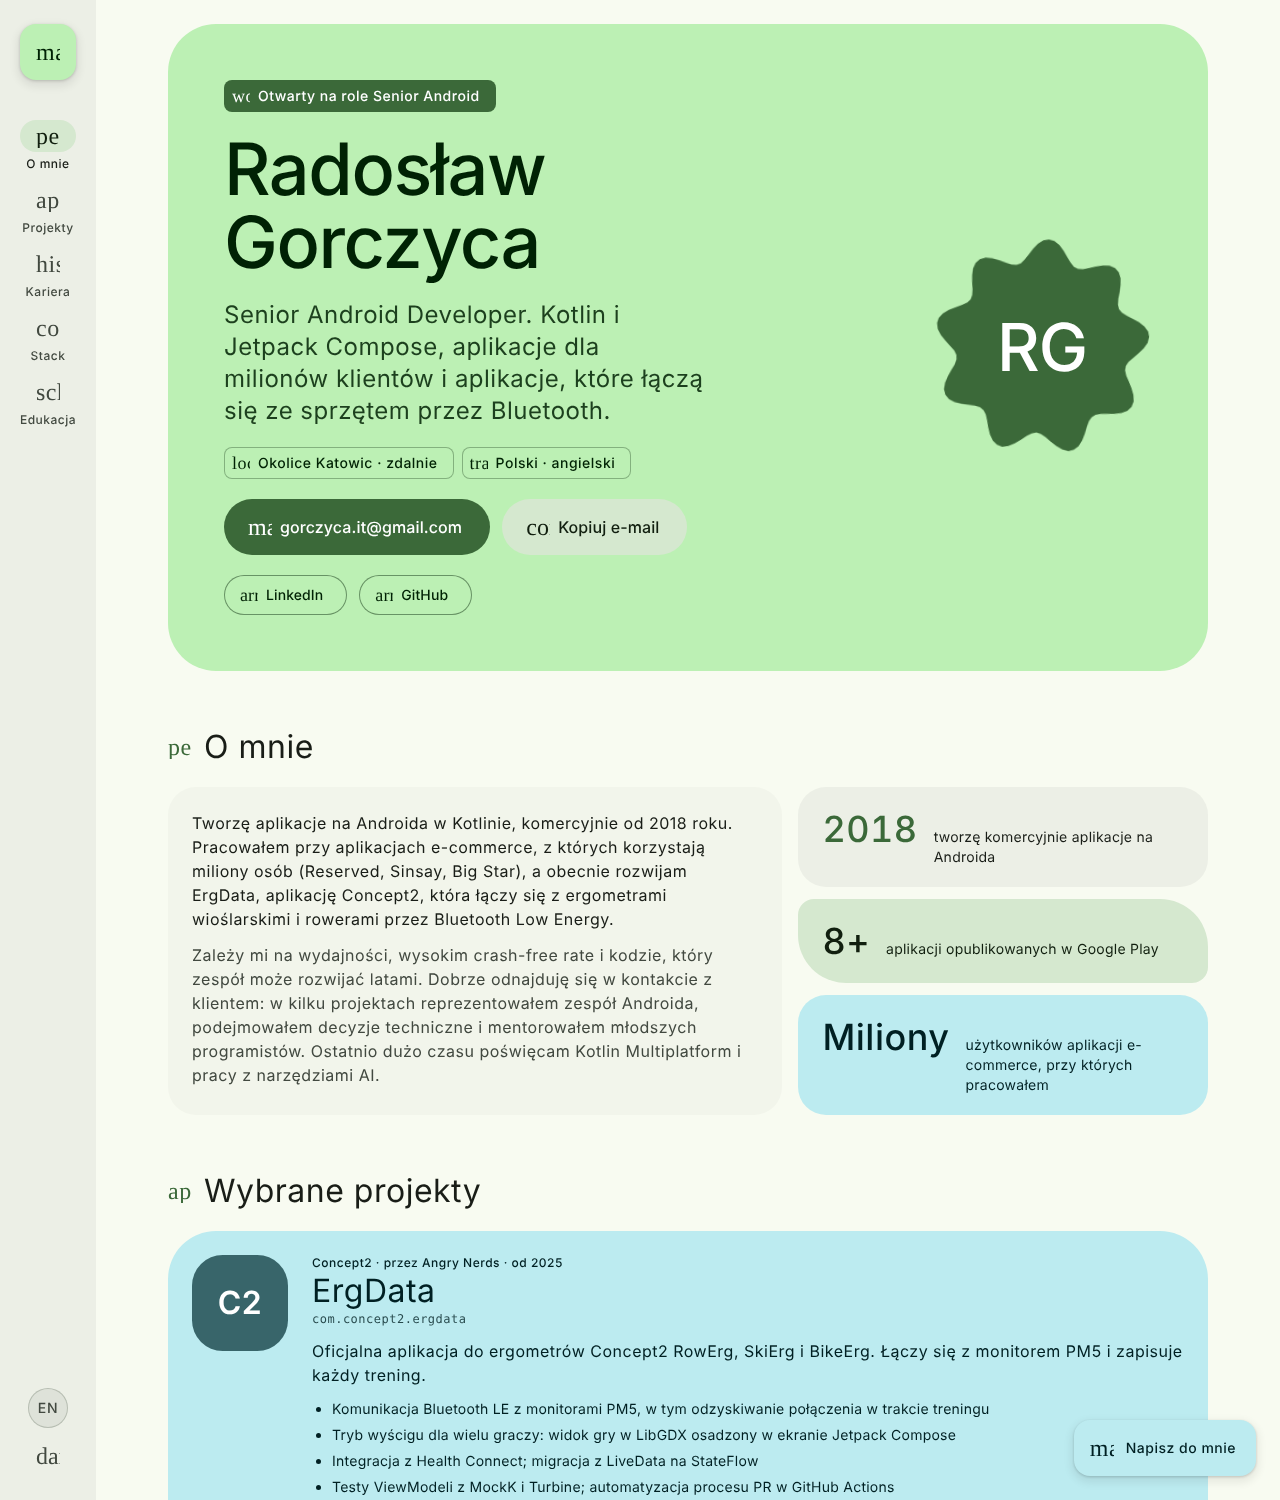
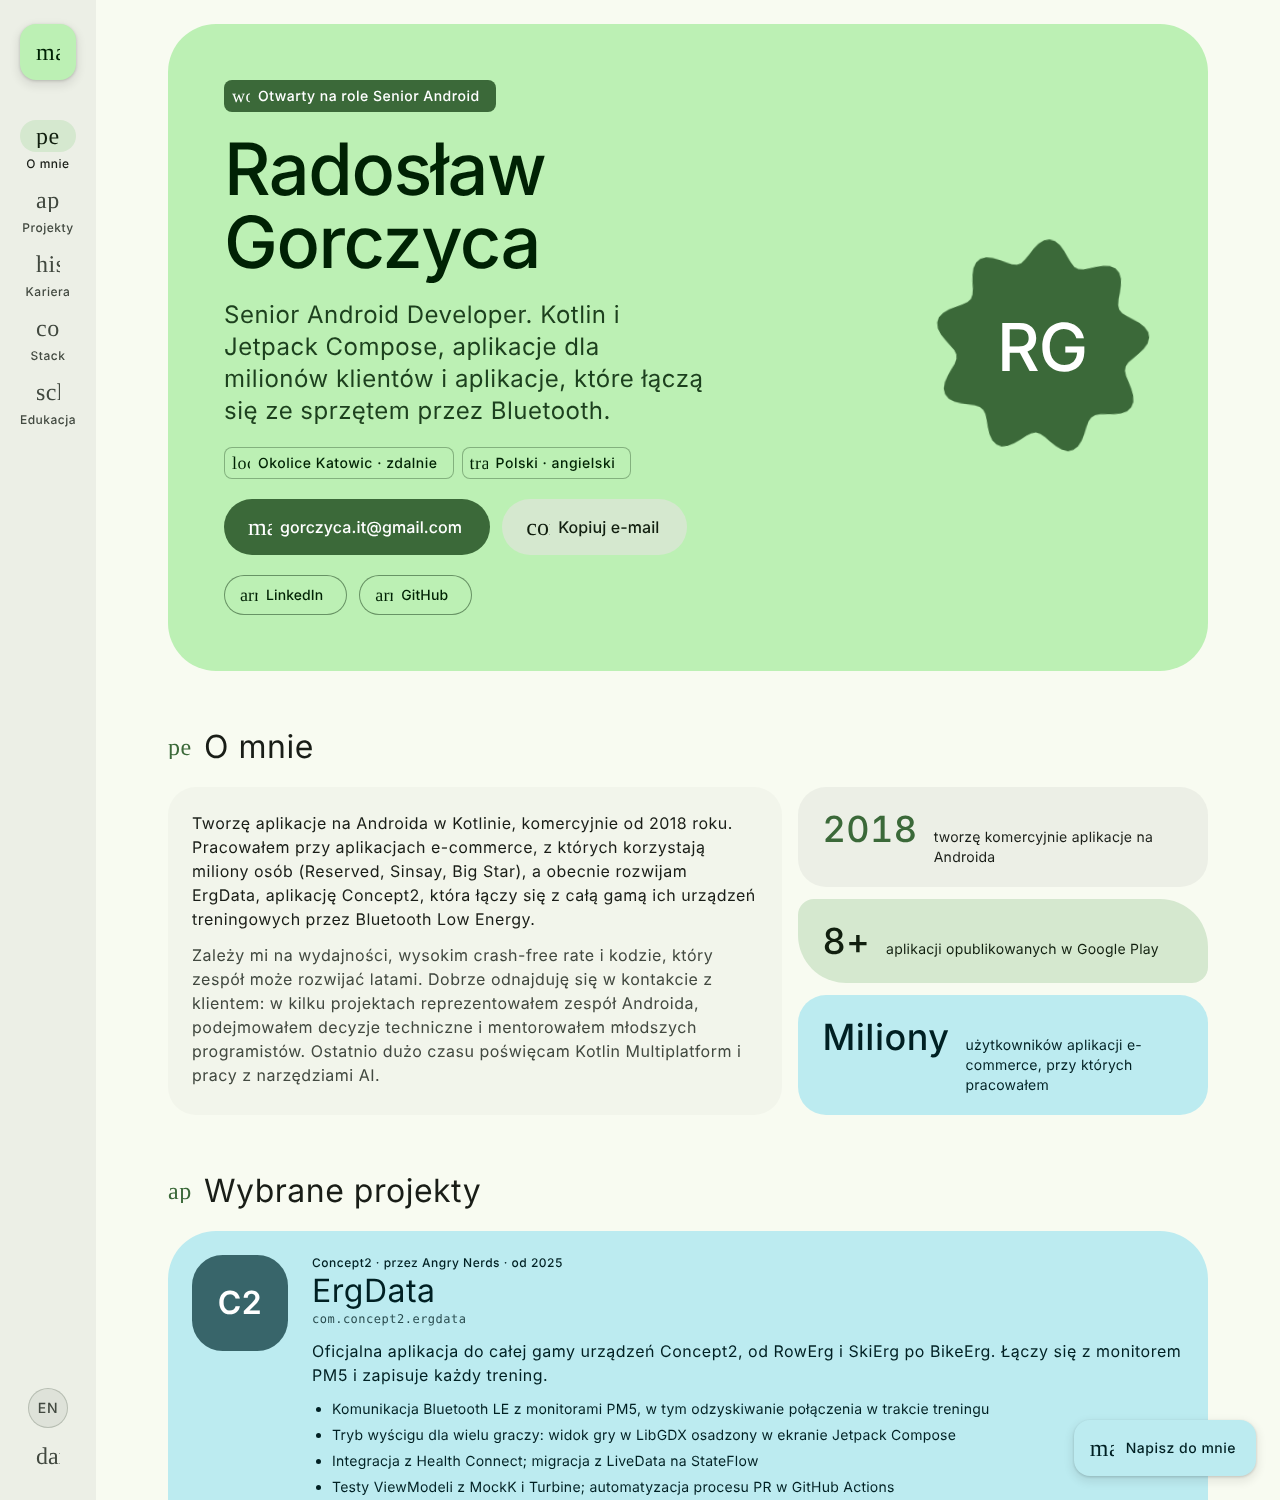
Fix sailing destinations, Tablescribe and ErgData descriptions
Claude-Session: https://claude.ai/code/session_0133f17d3yGtkWuL2MrnwmmY

Changed region(s): [[0.375, 0.8893, 0.9062, 0.92], [0.4375, 0.5827, 0.5938, 0.6133], [0.25, 0.8893, 0.3438, 0.92]]

diff --git a/public/index.html b/public/index.html
@@ -450,7 +450,7 @@ footer { display: flex; justify-content: space-between; flex-wrap: wrap; gap: 12
     <div class="section-head"><span class="icon">person</span><h2 class="headline-l" id="about-h">About</h2></div>
     <div class="about">
       <div class="card card-low">
-        <p class="body-l">I build Android apps in Kotlin and have been doing it commercially since 2018. I've worked on e-commerce apps used by millions (Reserved, Sinsay, Big Star) and now on ErgData, Concept2's companion app that connects to rowing machines and bikes over Bluetooth Low Energy.</p>
+        <p class="body-l">I build Android apps in Kotlin and have been doing it commercially since 2018. I've worked on e-commerce apps used by millions (Reserved, Sinsay, Big Star) and now on ErgData, Concept2's companion app that connects to their full range of fitness machines over Bluetooth Low Energy.</p>
         <p class="body-l muted">I care about performance, crash-free rates and code a team can keep changing for years. I'm comfortable being the person the client talks to: on several projects I represented the Android team, ran technical decisions and mentored junior developers. Lately I'm spending a lot of time with Kotlin Multiplatform and AI-assisted development workflows.</p>
       </div>
       <div class="stats">
@@ -473,7 +473,7 @@ footer { display: flex; justify-content: space-between; flex-wrap: wrap; gap: 12
             <h3 class="headline-l">ErgData</h3>
             <span class="pkg">com.concept2.ergdata</span>
           </div>
-          <p class="body-l">The official companion app for Concept2 RowErg, SkiErg and BikeErg. It pairs with the PM5 performance monitor and records every workout.</p>
+          <p class="body-l">The official companion app for the full range of Concept2 machines, from RowErg and SkiErg to BikeErg. It pairs with the PM5 performance monitor and records every workout.</p>
           <ul class="points body-m">
             <li>Bluetooth LE communication with PM5 monitors, including connection recovery mid-workout</li>
             <li>Multiplayer race mode: a LibGDX game view embedded in a Jetpack Compose screen</li>
@@ -683,7 +683,7 @@ footer { display: flex; justify-content: space-between; flex-wrap: wrap; gap: 12
       <div class="hobby">
         <span class="blob"><span class="icon filled">sailing</span></span>
         <h3 class="title-m">Sailing</h3>
-        <p class="body-m muted">Most of my holidays happen on a boat. Greece, Croatia, Norway so far.</p>
+        <p class="body-m muted">Most of my holidays happen on a boat. Greece, Croatia, Sweden so far.</p>
       </div>
       <div class="hobby">
         <span class="blob"><span class="icon filled">music_note</span></span>
@@ -744,7 +744,7 @@ footer { display: flex; justify-content: space-between; flex-wrap: wrap; gap: 12
 
 
   // Language: English by default; Polish via the switch or ?lang=pl. Choice remembered per browser.
-  var PL = {"About": "O mnie", "Work": "Projekty", "Experience": "Doświadczenie", "Skills": "Umiejętności", "Education": "Edukacja", "Open to Senior Android roles": "Otwarty na role Senior Android", "Senior Android Developer. Kotlin and Jetpack Compose, apps for millions of shoppers, and apps that talk to hardware over Bluetooth.": "Senior Android Developer. Kotlin i Jetpack Compose, aplikacje dla milionów klientów i aplikacje, które łączą się ze sprzętem przez Bluetooth.", "Katowice area, Poland · remote": "Okolice Katowic · zdalnie", "Polish · English": "Polski · angielski", "Copy email": "Kopiuj e-mail", "I build Android apps in Kotlin and have been doing it commercially since 2018. I've worked on e-commerce apps used by millions (Reserved, Sinsay, Big Star) and now on ErgData, Concept2's companion app that connects to rowing machines and bikes over Bluetooth Low Energy.": "Tworzę aplikacje na Androida w Kotlinie, komercyjnie od 2018 roku. Pracowałem przy aplikacjach e-commerce, z których korzystają miliony osób (Reserved, Sinsay, Big Star), a obecnie rozwijam ErgData, aplikację Concept2, która łączy się z ergometrami wioślarskimi i rowerami przez Bluetooth Low Energy.", "I care about performance, crash-free rates and code a team can keep changing for years. I'm comfortable being the person the client talks to: on several projects I represented the Android team, ran technical decisions and mentored junior developers. Lately I'm spending a lot of time with Kotlin Multiplatform and AI-assisted development workflows.": "Zależy mi na wydajności, wysokim crash-free rate i kodzie, który zespół może rozwijać latami. Dobrze odnajduję się w kontakcie z klientem: w kilku projektach reprezentowałem zespół Androida, podejmowałem decyzje techniczne i mentorowałem młodszych programistów. Ostatnio dużo czasu poświęcam Kotlin Multiplatform i pracy z narzędziami AI.", "building Android apps commercially": "tworzę komercyjnie aplikacje na Androida", "apps shipped to Google Play": "aplikacji opublikowanych w Google Play", "Millions": "Miliony", "of users on the e-commerce apps I worked on": "użytkowników aplikacji e-commerce, przy których pracowałem", "Selected work": "Wybrane projekty", "Concept2 · via Angry Nerds · 2025–now": "Concept2 · przez Angry Nerds · od 2025", "The official companion app for Concept2 RowErg, SkiErg and BikeErg. It pairs with the PM5 performance monitor and records every workout.": "Oficjalna aplikacja do ergometrów Concept2 RowErg, SkiErg i BikeErg. Łączy się z monitorem PM5 i zapisuje każdy trening.", "Bluetooth LE communication with PM5 monitors, including connection recovery mid-workout": "Komunikacja Bluetooth LE z monitorami PM5, w tym odzyskiwanie połączenia w trakcie treningu", "Multiplayer race mode: a LibGDX game view embedded in a Jetpack Compose screen": "Tryb wyścigu dla wielu graczy: widok gry w LibGDX osadzony w ekranie Jetpack Compose", "Health Connect integration; migration from LiveData to StateFlow": "Integracja z Health Connect; migracja z LiveData na StateFlow", "ViewModel test coverage with MockK and Turbine; GitHub Actions automation for the PR workflow": "Testy ViewModeli z MockK i Turbine; automatyzacja procesu PR w GitHub Actions", "LPP · via Future Mind": "LPP · przez Future Mind", "E-commerce app for the Polish fashion brand. Feature work, maintenance and support for a multi-million user base.": "Aplikacja e-commerce polskiej marki modowej. Rozwój funkcji, utrzymanie i wsparcie dla milionów użytkowników.", "E-commerce app for LPP's Sinsay brand. Feature development, maintenance and support.": "Aplikacja e-commerce marki Sinsay z grupy LPP. Rozwój funkcji, utrzymanie i wsparcie.", "Big Star · via Future Mind": "Big Star · przez Future Mind", "Shopping app for the denim brand. I acted as the de facto Android lead, owning technical decisions and client communication.": "Aplikacja zakupowa marki denimowej. Byłem de facto liderem zespołu Androida, odpowiadałem za decyzje techniczne i komunikację z klientem.", "via Future Mind": "przez Future Mind", "An Android library that checks the condition of a phone's display, used to verify screens for phone insurance.": "Biblioteka na Androida, która sprawdza stan wyświetlacza telefonu. Służy do weryfikacji ekranów przy ubezpieczeniach telefonów.", "TestingCup · via 21CN": "TestingCup · przez 21CN", "A deliberately buggy app full of tasks for manual testers, built for the TestingCup 2020 championship, plus a public demo version.": "Celowo pełna błędów aplikacja z zadaniami dla testerów manualnych, przygotowana na mistrzostwa TestingCup 2020, wraz z publiczną wersją demo.", "via 21CN": "przez 21CN", "A training app for manual testers, built alongside MrBuggy.": "Aplikacja szkoleniowa dla testerów manualnych, powstała równolegle z MrBuggy.", "Side project": "Projekt poboczny", "A platform for tabletop RPG groups that I'm building right now. Join the waitlist and help shape it.": "Platforma dla drużyn grających w gry fabularne, którą właśnie tworzę. Zapisz się na listę oczekujących i pomóż ją kształtować.", "See Tablescribe": "Zobacz Tablescribe", "Now": "Obecnie", "Working with international clients on requirements and solutions": "Współpraca z międzynarodowymi klientami przy wymaganiach i rozwiązaniach", "Building apps that connect directly to hardware (Concept2 ErgData, BLE)": "Tworzenie aplikacji łączących się bezpośrednio ze sprzętem (Concept2 ErgData, BLE)", "Focus on performance optimization and a high crash-free rate": "Nacisk na optymalizację wydajności i wysoki crash-free rate", "May 2025 – now": "maj 2025 – obecnie", "Development, maintenance and support of multi-million user apps (Reserved, Sinsay, Big Star)": "Rozwój, utrzymanie i wsparcie aplikacji z milionami użytkowników (Reserved, Sinsay, Big Star)", "Acted as the de facto Android lead on Big Star": "De facto lider zespołu Androida w projekcie Big Star", "Built the MirrorCheck screen-inspection SDK used inside the Play and Plus apps": "Stworzenie SDK MirrorCheck do badania ekranu, używanego w aplikacjach Play i Plus", "Represented the Android team to clients as the main point of contact and made key technical decisions": "Reprezentowanie zespołu Androida przed klientem jako główna osoba kontaktowa i podejmowanie kluczowych decyzji technicznych", "Took part in product design, analysis and planning in Scrum teams": "Udział w projektowaniu produktu, analizie i planowaniu w zespołach scrumowych", "Feb 2021 – May 2025": "luty 2021 – maj 2025", "Built Zapłać Mi (debt tracking among friends), MrBuggy and the Software Testing App": "Stworzenie aplikacji Zapłać Mi (śledzenie długów wśród znajomych), MrBuggy i Software Testing App", "Delivered features with MVVM and mentored a junior developer": "Dostarczanie funkcji w architekturze MVVM i mentoring młodszego programisty", "Jan 2020 – Feb 2021": "styczeń 2020 – luty 2021", "Projects for European clients, including CRM-AutoPartner, an app for field sales reps": "Projekty dla klientów z Europy, m.in. CRM-AutoPartner, aplikacja dla przedstawicieli handlowych", "Worked closely with UX designers in a fast-moving startup environment": "Ścisła współpraca z projektantami UX w dynamicznym środowisku startupowym", "Feb 2018 – Jan 2020": "luty 2018 – styczeń 2020", "Worked on a system for managing the academic library network": "Praca nad systemem zarządzania siecią bibliotek akademickich", "Jul 2016": "lipiec 2016", "Android & UI": "Android i UI", "Navigation": "Navigation", "Architecture & async": "Architektura i asynchroniczność", "Modularization": "Modularyzacja", "DI, data & network": "DI, dane i sieć", "Platform & hardware": "Platforma i sprzęt", "Testing & delivery": "Testy i wdrażanie", "Exploring & ways of work": "Rozwój i sposób pracy", "On-device AI": "AI na urządzeniu", "Client communication": "Komunikacja z klientem", "University of Silesia in Katowice": "Uniwersytet Śląski w Katowicach", "Engineer's degree (BEng) in Computer Science, 2014–2019. Thesis project: an": "Inżynier, informatyka, 2014–2019. Projekt dyplomowy:", "Android app for the animal shelter in Sosnowiec": "aplikacja na Androida dla schroniska dla zwierząt w Sosnowcu", "Certificates": "Certyfikaty", "Design Patterns in C#": "Wzorce projektowe w C#", "Languages": "Języki", "Polish, native": "Polski, ojczysty", "English, professional working proficiency": "Angielski, biegły w pracy zawodowej", "Off the keyboard": "Poza klawiaturą", "Sailing": "Żeglarstwo", "Most of my holidays happen on a boat. Greece, Croatia, Norway so far.": "Większość urlopów spędzam na łódce. Do tej pory Grecja, Chorwacja i Norwegia.", "Music": "Muzyka", "I sing in a vocal ensemble, play guitar and own headphones that cost too much.": "Śpiewam w zespole wokalnym, gram na gitarze i mam zdecydowanie za drogie słuchawki.", "My dog and full-time rubber duck. He has solved more bugs than he gets credit for.": "Mój pies i etatowa gumowa kaczuszka. Rozwiązał więcej bugów, niż mu się przypisuje.", "Email me": "Napisz do mnie", "NAV:Experience": "Kariera", "NAV:Skills": "Stack", "ARIA:Sections": "Sekcje", "ARIA:Email Radosław": "Napisz do Radosława", "ARIA:Switch theme": "Zmień motyw", "ARIA:Switch language": "Zmień język", "SNACK:Email address copied": "Skopiowano adres e-mail"};
+  var PL = {"About": "O mnie", "Work": "Projekty", "Experience": "Doświadczenie", "Skills": "Umiejętności", "Education": "Edukacja", "Open to Senior Android roles": "Otwarty na role Senior Android", "Senior Android Developer. Kotlin and Jetpack Compose, apps for millions of shoppers, and apps that talk to hardware over Bluetooth.": "Senior Android Developer. Kotlin i Jetpack Compose, aplikacje dla milionów klientów i aplikacje, które łączą się ze sprzętem przez Bluetooth.", "Katowice area, Poland · remote": "Okolice Katowic · zdalnie", "Polish · English": "Polski · angielski", "Copy email": "Kopiuj e-mail", "I build Android apps in Kotlin and have been doing it commercially since 2018. I've worked on e-commerce apps used by millions (Reserved, Sinsay, Big Star) and now on ErgData, Concept2's companion app that connects to their full range of fitness machines over Bluetooth Low Energy.": "Tworzę aplikacje na Androida w Kotlinie, komercyjnie od 2018 roku. Pracowałem przy aplikacjach e-commerce, z których korzystają miliony osób (Reserved, Sinsay, Big Star), a obecnie rozwijam ErgData, aplikację Concept2, która łączy się z całą gamą ich urządzeń treningowych przez Bluetooth Low Energy.", "I care about performance, crash-free rates and code a team can keep changing for years. I'm comfortable being the person the client talks to: on several projects I represented the Android team, ran technical decisions and mentored junior developers. Lately I'm spending a lot of time with Kotlin Multiplatform and AI-assisted development workflows.": "Zależy mi na wydajności, wysokim crash-free rate i kodzie, który zespół może rozwijać latami. Dobrze odnajduję się w kontakcie z klientem: w kilku projektach reprezentowałem zespół Androida, podejmowałem decyzje techniczne i mentorowałem młodszych programistów. Ostatnio dużo czasu poświęcam Kotlin Multiplatform i pracy z narzędziami AI.", "building Android apps commercially": "tworzę komercyjnie aplikacje na Androida", "apps shipped to Google Play": "aplikacji opublikowanych w Google Play", "Millions": "Miliony", "of users on the e-commerce apps I worked on": "użytkowników aplikacji e-commerce, przy których pracowałem", "Selected work": "Wybrane projekty", "Concept2 · via Angry Nerds · 2025–now": "Concept2 · przez Angry Nerds · od 2025", "The official companion app for the full range of Concept2 machines, from RowErg and SkiErg to BikeErg. It pairs with the PM5 performance monitor and records every workout.": "Oficjalna aplikacja do całej gamy urządzeń Concept2, od RowErg i SkiErg po BikeErg. Łączy się z monitorem PM5 i zapisuje każdy trening.", "Bluetooth LE communication with PM5 monitors, including connection recovery mid-workout": "Komunikacja Bluetooth LE z monitorami PM5, w tym odzyskiwanie połączenia w trakcie treningu", "Multiplayer race mode: a LibGDX game view embedded in a Jetpack Compose screen": "Tryb wyścigu dla wielu graczy: widok gry w LibGDX osadzony w ekranie Jetpack Compose", "Health Connect integration; migration from LiveData to StateFlow": "Integracja z Health Connect; migracja z LiveData na StateFlow", "ViewModel test coverage with MockK and Turbine; GitHub Actions automation for the PR workflow": "Testy ViewModeli z MockK i Turbine; automatyzacja procesu PR w GitHub Actions", "LPP · via Future Mind": "LPP · przez Future Mind", "E-commerce app for the Polish fashion brand. Feature work, maintenance and support for a multi-million user base.": "Aplikacja e-commerce polskiej marki modowej. Rozwój funkcji, utrzymanie i wsparcie dla milionów użytkowników.", "E-commerce app for LPP's Sinsay brand. Feature development, maintenance and support.": "Aplikacja e-commerce marki Sinsay z grupy LPP. Rozwój funkcji, utrzymanie i wsparcie.", "Big Star · via Future Mind": "Big Star · przez Future Mind", "Shopping app for the denim brand. I acted as the de facto Android lead, owning technical decisions and client communication.": "Aplikacja zakupowa marki denimowej. Byłem de facto liderem zespołu Androida, odpowiadałem za decyzje techniczne i komunikację z klientem.", "via Future Mind": "przez Future Mind", "An Android library that checks the condition of a phone's display, used to verify screens for phone insurance.": "Biblioteka na Androida, która sprawdza stan wyświetlacza telefonu. Służy do weryfikacji ekranów przy ubezpieczeniach telefonów.", "TestingCup · via 21CN": "TestingCup · przez 21CN", "A deliberately buggy app full of tasks for manual testers, built for the TestingCup 2020 championship, plus a public demo version.": "Celowo pełna błędów aplikacja z zadaniami dla testerów manualnych, przygotowana na mistrzostwa TestingCup 2020, wraz z publiczną wersją demo.", "via 21CN": "przez 21CN", "A training app for manual testers, built alongside MrBuggy.": "Aplikacja szkoleniowa dla testerów manualnych, powstała równolegle z MrBuggy.", "Side project": "Projekt poboczny", "A platform for tabletop RPG groups that I'm building right now. Join the waitlist and help shape it.": "Platforma dla drużyn grających w stołowe gry RPG, którą właśnie tworzę. Zapisz się na listę oczekujących i pomóż ją kształtować.", "See Tablescribe": "Zobacz Tablescribe", "Now": "Obecnie", "Working with international clients on requirements and solutions": "Współpraca z międzynarodowymi klientami przy wymaganiach i rozwiązaniach", "Building apps that connect directly to hardware (Concept2 ErgData, BLE)": "Tworzenie aplikacji łączących się bezpośrednio ze sprzętem (Concept2 ErgData, BLE)", "Focus on performance optimization and a high crash-free rate": "Nacisk na optymalizację wydajności i wysoki crash-free rate", "May 2025 – now": "maj 2025 – obecnie", "Development, maintenance and support of multi-million user apps (Reserved, Sinsay, Big Star)": "Rozwój, utrzymanie i wsparcie aplikacji z milionami użytkowników (Reserved, Sinsay, Big Star)", "Acted as the de facto Android lead on Big Star": "De facto lider zespołu Androida w projekcie Big Star", "Built the MirrorCheck screen-inspection SDK used inside the Play and Plus apps": "Stworzenie SDK MirrorCheck do badania ekranu, używanego w aplikacjach Play i Plus", "Represented the Android team to clients as the main point of contact and made key technical decisions": "Reprezentowanie zespołu Androida przed klientem jako główna osoba kontaktowa i podejmowanie kluczowych decyzji technicznych", "Took part in product design, analysis and planning in Scrum teams": "Udział w projektowaniu produktu, analizie i planowaniu w zespołach scrumowych", "Feb 2021 – May 2025": "luty 2021 – maj 2025", "Built Zapłać Mi (debt tracking among friends), MrBuggy and the Software Testing App": "Stworzenie aplikacji Zapłać Mi (śledzenie długów wśród znajomych), MrBuggy i Software Testing App", "Delivered features with MVVM and mentored a junior developer": "Dostarczanie funkcji w architekturze MVVM i mentoring młodszego programisty", "Jan 2020 – Feb 2021": "styczeń 2020 – luty 2021", "Projects for European clients, including CRM-AutoPartner, an app for field sales reps": "Projekty dla klientów z Europy, m.in. CRM-AutoPartner, aplikacja dla przedstawicieli handlowych", "Worked closely with UX designers in a fast-moving startup environment": "Ścisła współpraca z projektantami UX w dynamicznym środowisku startupowym", "Feb 2018 – Jan 2020": "luty 2018 – styczeń 2020", "Worked on a system for managing the academic library network": "Praca nad systemem zarządzania siecią bibliotek akademickich", "Jul 2016": "lipiec 2016", "Android & UI": "Android i UI", "Navigation": "Navigation", "Architecture & async": "Architektura i asynchroniczność", "Modularization": "Modularyzacja", "DI, data & network": "DI, dane i sieć", "Platform & hardware": "Platforma i sprzęt", "Testing & delivery": "Testy i wdrażanie", "Exploring & ways of work": "Rozwój i sposób pracy", "On-device AI": "AI na urządzeniu", "Client communication": "Komunikacja z klientem", "University of Silesia in Katowice": "Uniwersytet Śląski w Katowicach", "Engineer's degree (BEng) in Computer Science, 2014–2019. Thesis project: an": "Inżynier, informatyka, 2014–2019. Projekt dyplomowy:", "Android app for the animal shelter in Sosnowiec": "aplikacja na Androida dla schroniska dla zwierząt w Sosnowcu", "Certificates": "Certyfikaty", "Design Patterns in C#": "Wzorce projektowe w C#", "Languages": "Języki", "Polish, native": "Polski, ojczysty", "English, professional working proficiency": "Angielski, biegły w pracy zawodowej", "Off the keyboard": "Poza klawiaturą", "Sailing": "Żeglarstwo", "Most of my holidays happen on a boat. Greece, Croatia, Sweden so far.": "Większość urlopów spędzam na łódce. Do tej pory Grecja, Chorwacja i Szwecja.", "Music": "Muzyka", "I sing in a vocal ensemble, play guitar and own headphones that cost too much.": "Śpiewam w zespole wokalnym, gram na gitarze i mam zdecydowanie za drogie słuchawki.", "My dog and full-time rubber duck. He has solved more bugs than he gets credit for.": "Mój pies i etatowa gumowa kaczuszka. Rozwiązał więcej bugów, niż mu się przypisuje.", "Email me": "Napisz do mnie", "NAV:Experience": "Kariera", "NAV:Skills": "Stack", "ARIA:Sections": "Sekcje", "ARIA:Email Radosław": "Napisz do Radosława", "ARIA:Switch theme": "Zmień motyw", "ARIA:Switch language": "Zmień język", "SNACK:Email address copied": "Skopiowano adres e-mail"};
   var lang = "en";
   function t(en) { return lang === "pl" && PL["SNACK:" + en] ? PL["SNACK:" + en] : en; }
   var textNodes = [];
